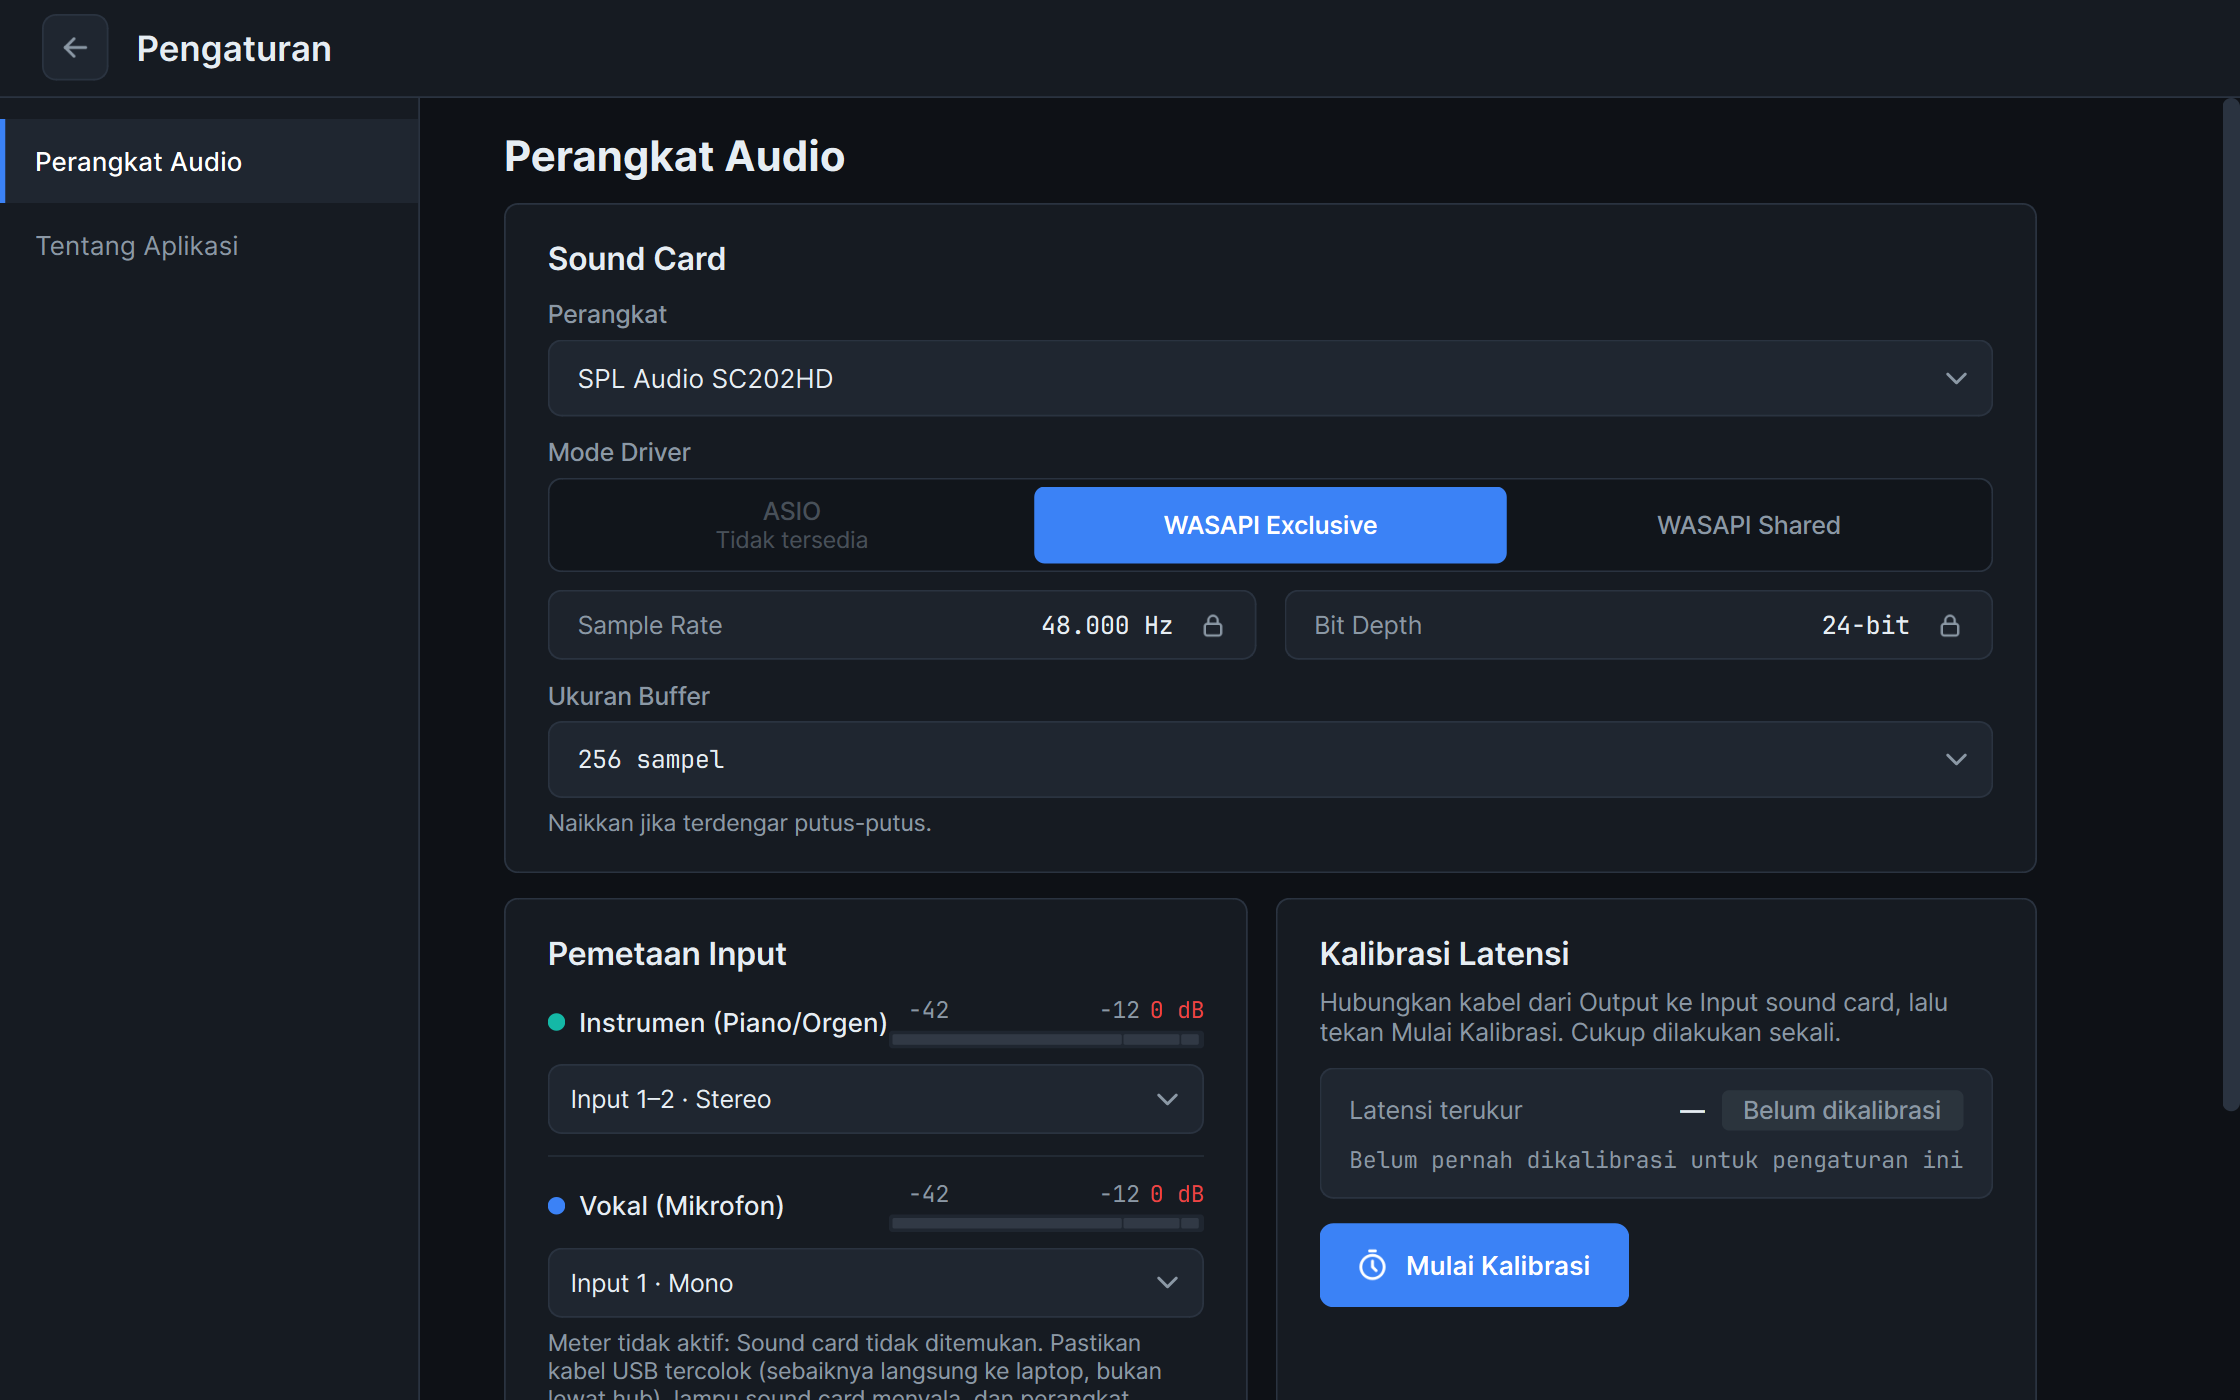
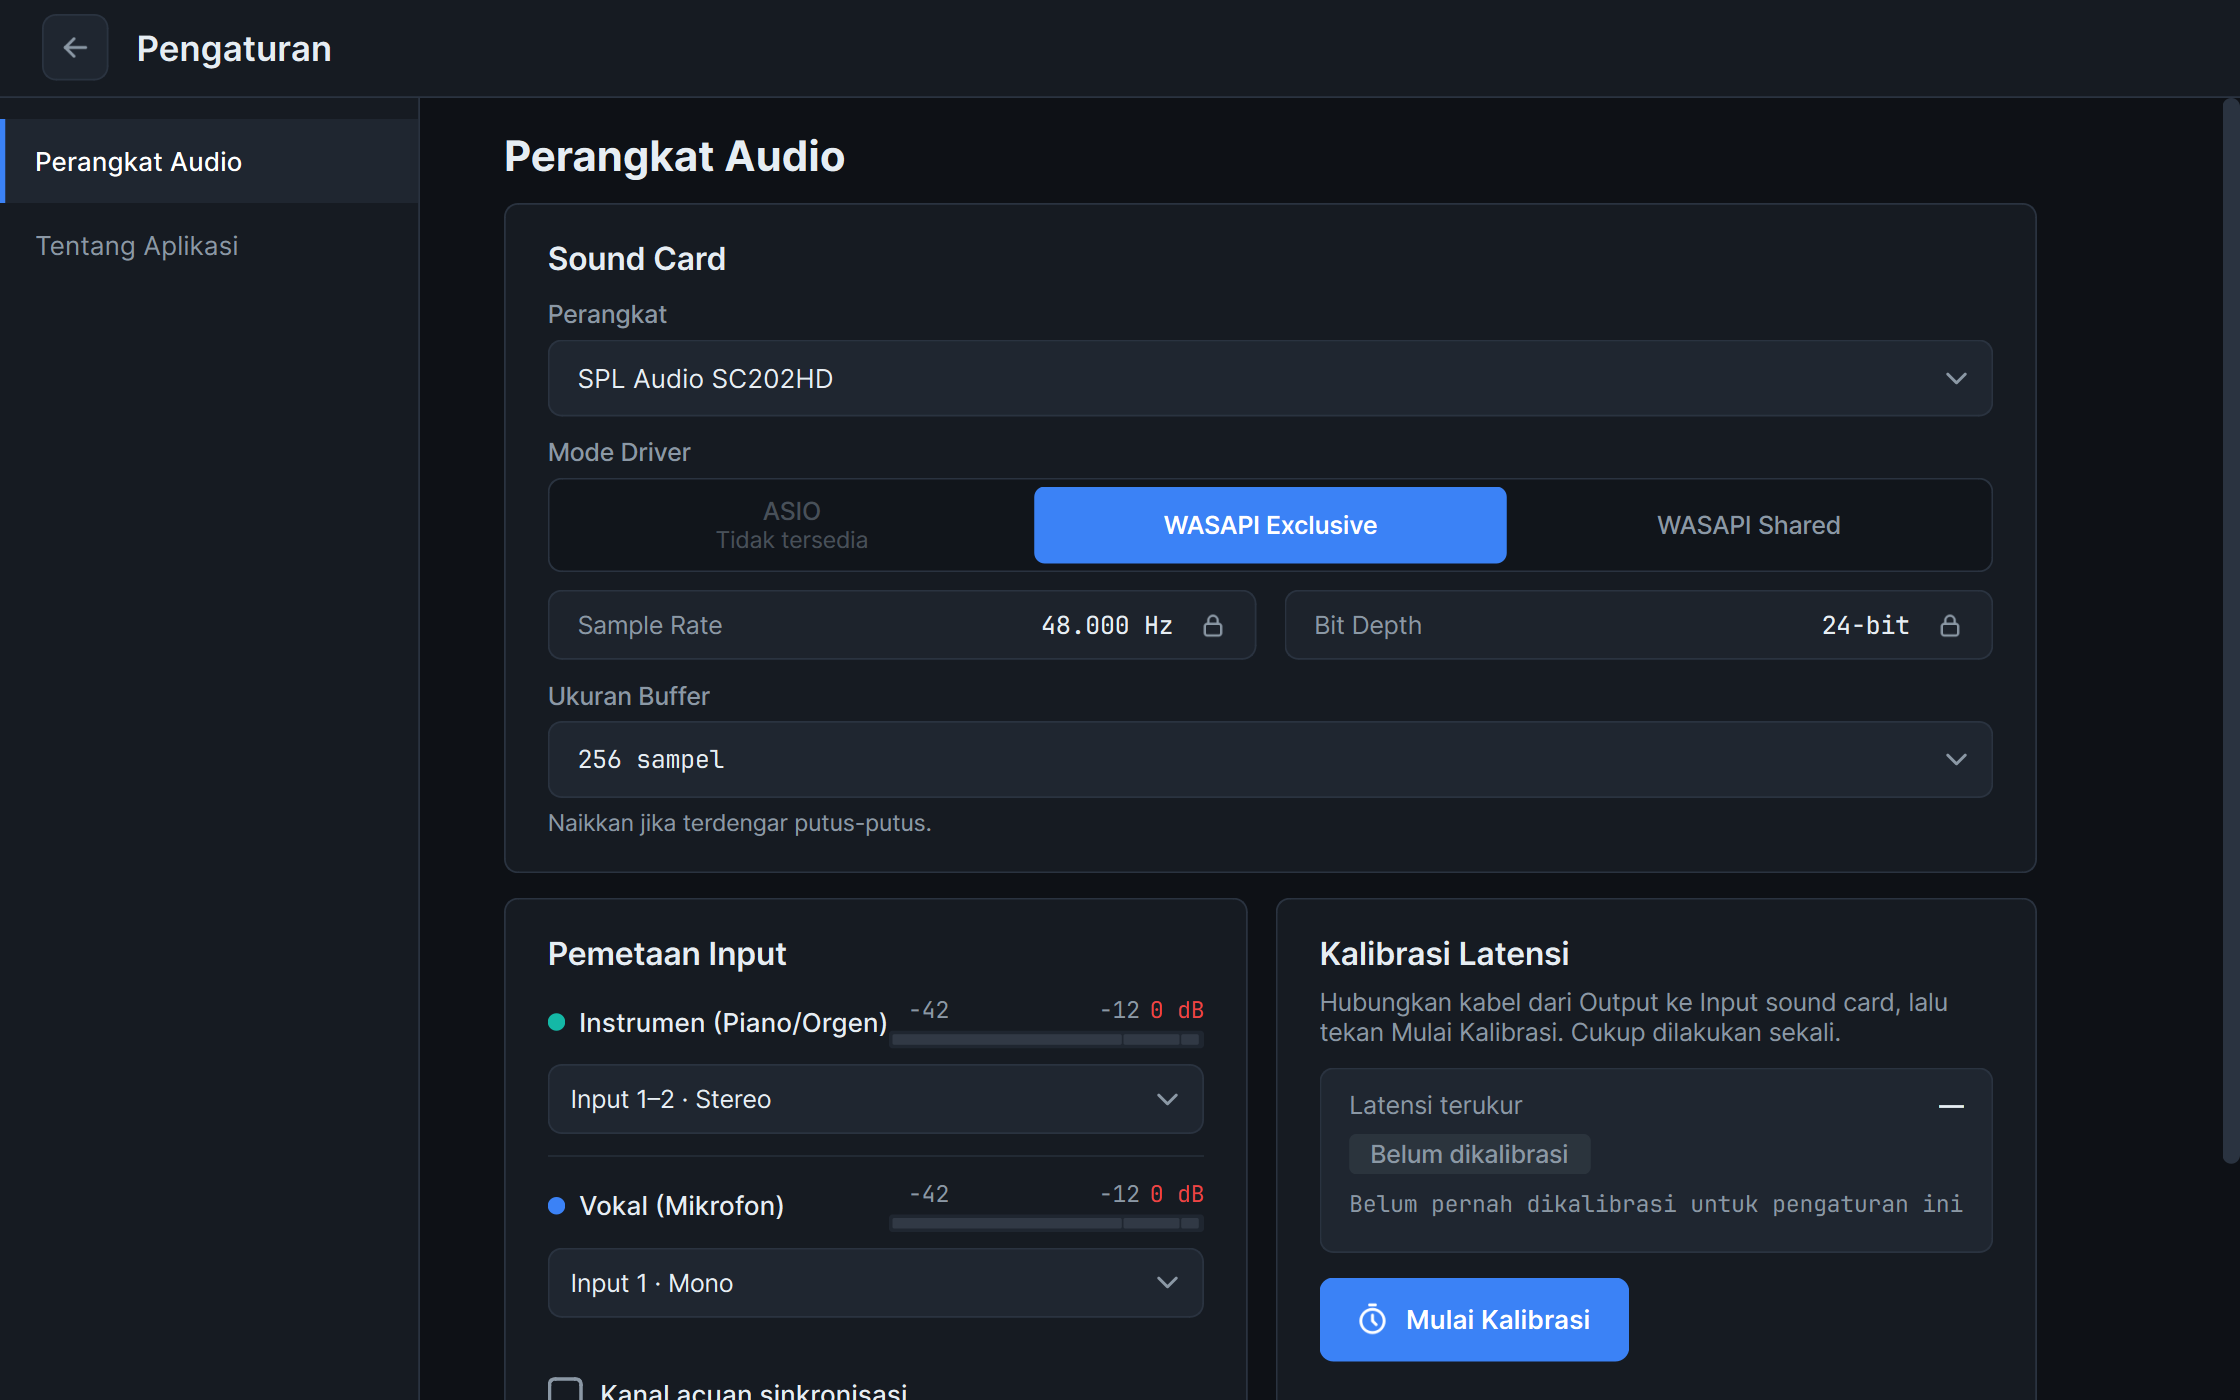
Rilis 1.2.0: tampilan kalibrasi untuk SC202HD dan installer baru
- Kalibrasi Latensi: teks tidak lagi menempel; hasil berubah-ubah tampil
  "Berubah-ubah" dengan penjelasan bila kanal acuan aktif, atau
  "Tidak konsisten" (kuning) dengan saran mengaktifkan kanal acuan
- Versi 1.2.0 di aplikasi, pyproject, skrip Inno Setup, README, panduan
- build_installer.py melaporkan Setup.exe sesuai versi
- CHANGELOG 1.2.0; 256 tes lulus; Setup.exe 1.2.0 dipasang dan diuji

diff --git a/src/chorale/ui/settings_screen.py b/src/chorale/ui/settings_screen.py
@@ -99,6 +99,13 @@ class LockedField(QFrame):
         self.setToolTip("Dikunci agar semua rekaman 48 kHz / 24-bit.")
 
 
+MSG_VARIES_HANDLED = "Berubah-ubah"
+HINT_VARIES_HANDLED = ("Wajar untuk sound card ini: latensinya berubah setiap kali merekam. Kanal acuan aktif "
+                       "menyejajarkan setiap take vokal, jadi hasil rekaman tetap tepat.")
+HINT_VARIES_ENABLE = ("Latensi sound card ini berubah setiap kali merekam, jadi track bisa bergeser beberapa "
+                      "milidetik. Aktifkan Kanal acuan sinkronisasi agar setiap take vokal tetap sejajar.")
+
+
 class AudioDevicePage(QWidget):
     """Isi halaman 'Perangkat Audio'."""
 
@@ -169,10 +176,14 @@ class AudioDevicePage(QWidget):
         self.latency_value.setFont(theme.font(18, QFont.DemiBold, mono=True))
         self.accuracy_badge = label("")
         self.last_calibrated = label("", "hintMono")
+        self.calibration_hint = label("", "hint")
+        self.calibration_hint.setWordWrap(True)
+        self.calibration_hint.hide()
         result_box = card("inset")
         result_box.setLayout(vbox(
-            hbox(label("Latensi terukur", "secondary"), None, self.latency_value, 10, self.accuracy_badge), 8,
-            self.last_calibrated, margins=(16, 12, 16, 12)))
+            hbox(label("Latensi terukur", "secondary"), 12, None, self.latency_value), 8,
+            hbox(self.accuracy_badge, None), 8,
+            self.last_calibrated, 6, self.calibration_hint, margins=(16, 12, 16, 12)))
         self.calibrate_btn = button("Mulai Kalibrasi", "primary", "timer", "#FFFFFF", 20)
         self.calibrate_btn.clicked.connect(self.start_calibration)
         self.calibration_msg = label("", "error")
@@ -207,6 +218,7 @@ class AudioDevicePage(QWidget):
         self.buffer_combo.currentIndexChanged.connect(lambda _i: self._reselect())
         self.vocal_combo.currentIndexChanged.connect(lambda _i: self._update_reference_hint())
         self.reference_check.toggled.connect(lambda _on: self._update_reference_hint())
+        self.reference_check.toggled.connect(lambda _on: self._show_calibration())
         self._meter_timer = QTimer(self)
         self._meter_timer.setInterval(1000 // LEVEL_FPS)
         self._meter_timer.timeout.connect(self._update_meters)
@@ -344,6 +356,7 @@ class AudioDevicePage(QWidget):
             s = self._selection
             result = find_calibration(s.input.name, s.output.name, s.hostapi, s.exclusive,
                                       self.buffer_combo.currentData())
+        self.calibration_hint.hide()
         if result is None:
             self.latency_value.setText("—")
             self.accuracy_badge.setText("Belum dikalibrasi")
@@ -351,9 +364,17 @@ class AudioDevicePage(QWidget):
             self.last_calibrated.setText("Belum pernah dikalibrasi untuk pengaturan ini")
             return
         text, level = accuracy_label(result)
-        color = {"baik": COLORS["green"], "cukup": COLORS["yellow"], "buruk": COLORS["red"]}[level]
-        bg = {"baik": "rgba(34, 197, 94, 0.12)", "cukup": "rgba(234, 179, 8, 0.12)",
-              "buruk": "rgba(239, 68, 68, 0.12)"}[level]
+        if level == "buruk":
+            # Latensi yang berubah tiap stream adalah sifat driver USB generik (mis. SC202HD), bukan
+            # kesalahan pengguna; kanal acuan mengatasinya, jadi tidak ditampilkan sebagai error merah.
+            reference = self.reference_check.isChecked()
+            text = MSG_VARIES_HANDLED if reference else text
+            color, bg = (COLORS["text2"], "rgba(139, 152, 165, 0.12)") if reference else                 (COLORS["yellow"], "rgba(234, 179, 8, 0.12)")
+            self.calibration_hint.setText(HINT_VARIES_HANDLED if reference else HINT_VARIES_ENABLE)
+            self.calibration_hint.show()
+        else:
+            color = {"baik": COLORS["green"], "cukup": COLORS["yellow"]}[level]
+            bg = {"baik": "rgba(34, 197, 94, 0.12)", "cukup": "rgba(234, 179, 8, 0.12)"}[level]
         self.latency_value.setText(f"{result.latency_ms:.1f} ms")
         self.accuracy_badge.setText(("✓ " if level == "baik" else "") + text)
         self._badge_style(color, bg)

diff --git a/tests/test_release.py b/tests/test_release.py
@@ -32,8 +32,8 @@ def fresh_logging(isolated_appdata):
 
 
 def test_version():
-    assert __version__ == "1.1.0"
-    assert 'version = "1.1.0"' in (ROOT / "pyproject.toml").read_text(encoding="utf-8")
+    assert __version__ == "1.2.0"
+    assert 'version = "1.2.0"' in (ROOT / "pyproject.toml").read_text(encoding="utf-8")
 
 
 def test_log_file_rotating_in_appdata(fresh_logging, isolated_appdata):
@@ -44,7 +44,7 @@ def test_log_file_rotating_in_appdata(fresh_logging, isolated_appdata):
     logging.getLogger("chorale.test").warning("pesan uji")
     handler.flush()
     text = (folder / "harmonisatb.log").read_text(encoding="utf-8")
-    assert "HarmoniSATB Studio 1.1.0 dimulai" in text and "pesan uji" in text
+    assert "HarmoniSATB Studio 1.2.0 dimulai" in text and "pesan uji" in text
 
 
 def test_unhandled_errors_are_logged_and_shown_friendly(fresh_logging):
@@ -100,3 +100,34 @@ def test_installer_script_keeps_user_data():
     spec = (ROOT / "installer" / "harmonisatb.spec").read_text(encoding="utf-8")
     assert "console=False" in spec and "harmonisatb.ico" in spec
     assert (ROOT / "src" / "chorale" / "ui" / "assets" / "harmonisatb.ico").read_bytes()[:4] == b"\x00\x00\x01\x00"
+
+
+def test_calibration_badge_for_varying_latency():
+    """SC202HD: latensi berubah-ubah tidak ditampilkan sebagai error merah; ada saran atau penjelasan."""
+    from PySide6.QtWidgets import QApplication
+
+    from chorale.audio.calibration import CalibrationResult
+    from chorale.settings import AppSettings
+    from chorale.ui import theme
+    from chorale.ui.settings_screen import HINT_VARIES_ENABLE, HINT_VARIES_HANDLED, AudioDevicePage
+
+    app = QApplication.instance() or QApplication([])
+    theme.apply(app)
+
+    def result(spread):
+        return CalibrationResult("in", "out", "Windows WASAPI", True, 48000, 256, 1008, 21.0,
+                                 [1008, 1008 + spread], spread, 49.3, "2026-11-07T20:33:00")
+
+    page = AudioDevicePage()
+    page.load(AppSettings(sync_reference=True), cards=[])
+    page._show_calibration(result(600))
+    assert page.accuracy_badge.text() == "Berubah-ubah"
+    assert page.calibration_hint.text() == HINT_VARIES_HANDLED and not page.calibration_hint.isHidden()
+
+    page.reference_check.setChecked(False)
+    page._show_calibration(result(600))
+    assert page.accuracy_badge.text() == "Tidak konsisten"
+    assert page.calibration_hint.text() == HINT_VARIES_ENABLE
+
+    page._show_calibration(result(0))
+    assert "Akurat" in page.accuracy_badge.text() and page.calibration_hint.isHidden()

diff --git a/tools/build_installer.py b/tools/build_installer.py
@@ -157,7 +157,7 @@ def main() -> int:
         print("   lalu jalankan ulang skrip ini.")
         return 2
     subprocess.run([str(iscc), f"/DMyAppVersion={__version__}", str(ISS)], check=True, cwd=ROOT / "installer")
-    setup = next((ROOT / "installer" / "Output").glob("*Setup.exe"))
+    setup = ROOT / "installer" / "Output" / f"HarmoniSATB-Studio-{__version__}-Setup.exe"
     print(f"   Installer: {setup} ({setup.stat().st_size / 1024**2:.0f} MB)")
     return 0
 

diff --git a/src/chorale/__init__.py b/src/chorale/__init__.py
@@ -1,3 +1,3 @@
 """HarmoniSATB Studio — paket utama aplikasi."""
 
-__version__ = "1.1.0"
+__version__ = "1.2.0"

diff --git a/CHANGELOG.md b/CHANGELOG.md
@@ -4,6 +4,10 @@ Semua perubahan penting pada HarmoniSATB Studio dicatat di berkas ini. Formatnya
 
 ## [Belum dirilis]
 
+## [1.2.0] - 2026-11-07
+
+Penyesuaian setelah uji dengan SPL Audio SC202HD.
+
 ### Ditambahkan
 
 - **Kanal acuan sinkronisasi** (Pengaturan > Pemetaan Input): saat merekam vokal, kabel dari Output ke input yang tidak dipakai mikrofon dipakai untuk mengukur latensi sebenarnya setiap take, lalu take disejajarkan dengan piano, termasuk lompatan latensi di tengah lagu. Ditambah pengingat di Persiapan Rekam Vokal.
@@ -14,15 +18,18 @@ Semua perubahan penting pada HarmoniSATB Studio dicatat di berkas ini. Formatnya
 
 - Target sinkronisasi PRD menjadi ≤ 3 ms (PRD v1.1 rev. 1) setelah uji SPL Audio SC202HD.
 - Panduan pengguna: persiapan laptop sebelum merekam (charger, aplikasi pengolah suara dimatikan, USB selective suspend dimatikan).
+- Kalibrasi yang hasilnya berubah-ubah tidak lagi ditampilkan sebagai error merah: "Berubah-ubah" dengan penjelasan bila kanal acuan aktif, atau "Tidak konsisten" (kuning) dengan saran mengaktifkan kanal acuan.
+
+### Diperbaiki
+
+- Teks "Latensi terukur" menempel pada angka latensi saat kolom Pengaturan sempit.
+- Ambang lompatan penyejajaran 8 → 24 sampel agar klik bernada berbeda tidak dibaca sebagai lompatan latensi.
+- `installer/harmonisatb.spec` kini ikut di repositori. Sebelumnya terabaikan oleh aturan `*.spec` di `.gitignore`, sehingga installer tidak bisa dibuat dari hasil clone.
 
 ### Dokumentasi
 
 - README ditulis ulang: fitur, tangkapan layar, kebutuhan sistem, instalasi, status kriteria penerimaan.
 - Dokumen baru: [ARCHITECTURE.md](docs/ARCHITECTURE.md), [CLI.md](docs/CLI.md), [CONTRIBUTING.md](CONTRIBUTING.md), [SECURITY.md](SECURITY.md), [THIRD_PARTY_NOTICES.md](THIRD_PARTY_NOTICES.md), templat Issue dan pull request.
-
-### Diperbaiki
-
-- `installer/harmonisatb.spec` kini ikut di repositori. Sebelumnya terabaikan oleh aturan `*.spec` di `.gitignore`, sehingga installer tidak bisa dibuat dari hasil clone.
 
 ## [1.1.0] - 2026-11-06
 
@@ -76,5 +83,6 @@ Rilis pertama yang lengkap secara fitur sesuai [PRD v1.1](docs/PRD_v1.1.md), sia
 - Uji dengan SPL Audio SC202HD (kalibrasi, sinkronisasi, stress test, rekaman nyanyian) belum dilakukan.
 - DeepFilterNet belum dipakai.
 
-[Belum dirilis]: https://github.com/dimasarturoh15/ChoraleStudio/compare/v1.1.0...HEAD
+[Belum dirilis]: https://github.com/dimasarturoh15/ChoraleStudio/compare/v1.2.0...HEAD
+[1.2.0]: https://github.com/dimasarturoh15/ChoraleStudio/compare/v1.1.0...v1.2.0
 [1.1.0]: https://github.com/dimasarturoh15/ChoraleStudio/releases/tag/v1.1.0

diff --git a/docs/PROGRESS.md b/docs/PROGRESS.md
@@ -605,3 +605,13 @@ SC202HD akhirnya tersambung. Chip di dalamnya **Realtek** (USB `VID_0BDA&PID_4E1
 Mode `--acuan-satu-kabel`: take vokal (loopback playback) sekaligus menjadi acuannya sendiri; menguji pengukuran dan penggeseran per take dengan sinyal hardware asli. Yang belum teruji di hardware hanya keserempakan Input 1 dan Input 2 (satu chip, satu clock); uji dua kabel (`--acuan`) menunggu kabel kedua.
 
 **Diperbaiki saat uji:** `JUMP_TOLERANCE` penyejajaran 8 → 24 sampel. Di hardware, klik aksen dan klik biasa (nada berbeda) terukur selisih 11 sampel karena tunda DAC/kabel/ADC bergantung frekuensi, sehingga muncul 7 "lompatan" palsu per take 8 detik. Lompatan driver nyata ≥ 65 sampel. Tes regresi ditambahkan.
+
+---
+
+## Rilis 1.2.0 (07-11-2026)
+
+- Versi 1.2.0 (fitur baru: kanal acuan sinkronisasi, pemanasan sound card).
+- Layar Kalibrasi Latensi: teks "Latensi terukur" tidak lagi menempel pada angka (status pindah ke baris sendiri). Hasil yang berubah-ubah ditampilkan "Berubah-ubah" (netral) dengan penjelasan bila kanal acuan aktif, atau "Tidak konsisten" (kuning, bukan merah) dengan saran mengaktifkan kanal acuan. Label berubah langsung saat kotak centang diklik.
+- `tools/build_installer.py`: laporan berkas installer kini memakai nama sesuai versi (sebelumnya bisa menyebut Setup.exe versi lama di folder yang sama).
+- Tes baru `test_calibration_badge_for_varying_latency`; **256 tes lulus**.
+- `HarmoniSATB-Studio-1.2.0-Setup.exe` (87 MB) dibangun, aplikasi hasil build lulus uji tanpa Python di PATH (buka/tutup, `--uji-mandiri` −14,04 LUFS), lalu **dipasang menimpa 1.1.0** di laptop ini (`/VERYSILENT /CURRENTUSER`) dan diuji lagi dari folder instalasi: lulus.

diff --git a/README.md b/README.md
@@ -6,7 +6,7 @@
 
 **Rekam paduan suara SATB dan piano secara bergiliran, lalu buat master siap YouTube dengan satu klik.**
 
-![Versi](https://img.shields.io/badge/versi-1.1.0-2f81f7)
+![Versi](https://img.shields.io/badge/versi-1.2.0-2f81f7)
 ![Platform](https://img.shields.io/badge/platform-Windows%2010%20%7C%2011-0078d4)
 ![Python](https://img.shields.io/badge/python-3.12-3776ab)
 ![Antarmuka](https://img.shields.io/badge/UI-PySide6%20(Qt%206)-41cd52)
@@ -138,7 +138,7 @@ Prioritas driver: **ASIO** (bila tersedia) → **WASAPI Exclusive** → **WASAPI
 
 Rilis unduhan belum diterbitkan. Sampai saat itu, `Setup.exe` dibuat dari kode sumber (lihat [Membuat installer](#membuat-installer)), lalu:
 
-1. Jalankan `HarmoniSATB-Studio-1.1.0-Setup.exe` dan ikuti langkahnya. Hak admin tidak diperlukan.
+1. Jalankan `HarmoniSATB-Studio-1.2.0-Setup.exe` dan ikuti langkahnya. Hak admin tidak diperlukan.
 2. Buka **HarmoniSATB Studio** dari Start Menu atau Desktop.
 3. Peluncuran pertama bisa 20 sampai 50 detik karena Windows Defender memindai berkas baru.
 
@@ -269,7 +269,7 @@ ChoraleStudio/
 
 ## Status proyek
 
-Versi **1.1.0** lengkap secara fitur dan siap uji lapangan. Ringkasan kriteria penerimaan (PRD bagian 10):
+Versi **1.2.0** lengkap secara fitur, sudah diuji dengan SPL Audio SC202HD, dan siap uji lapangan. Ringkasan kriteria penerimaan (PRD bagian 10):
 
 | Kriteria | Target | Status |
 |---|---|---|

diff --git a/docs/PANDUAN_PENGGUNA.md b/docs/PANDUAN_PENGGUNA.md
@@ -8,7 +8,7 @@ HarmoniSATB Studio membantu paduan suara merekam **piano/orgen** lalu **Bass, Te
 
 ## 1. Memasang aplikasi
 
-1. Klik dua kali **HarmoniSATB-Studio-1.1.0-Setup.exe**.
+1. Klik dua kali **HarmoniSATB-Studio-1.2.0-Setup.exe**.
 2. Ikuti langkah di layar. Centang **"Buat shortcut di Desktop"** jika ingin ikon di Desktop.
 3. Setelah selesai, buka **HarmoniSATB Studio** dari Start Menu atau Desktop.
 
